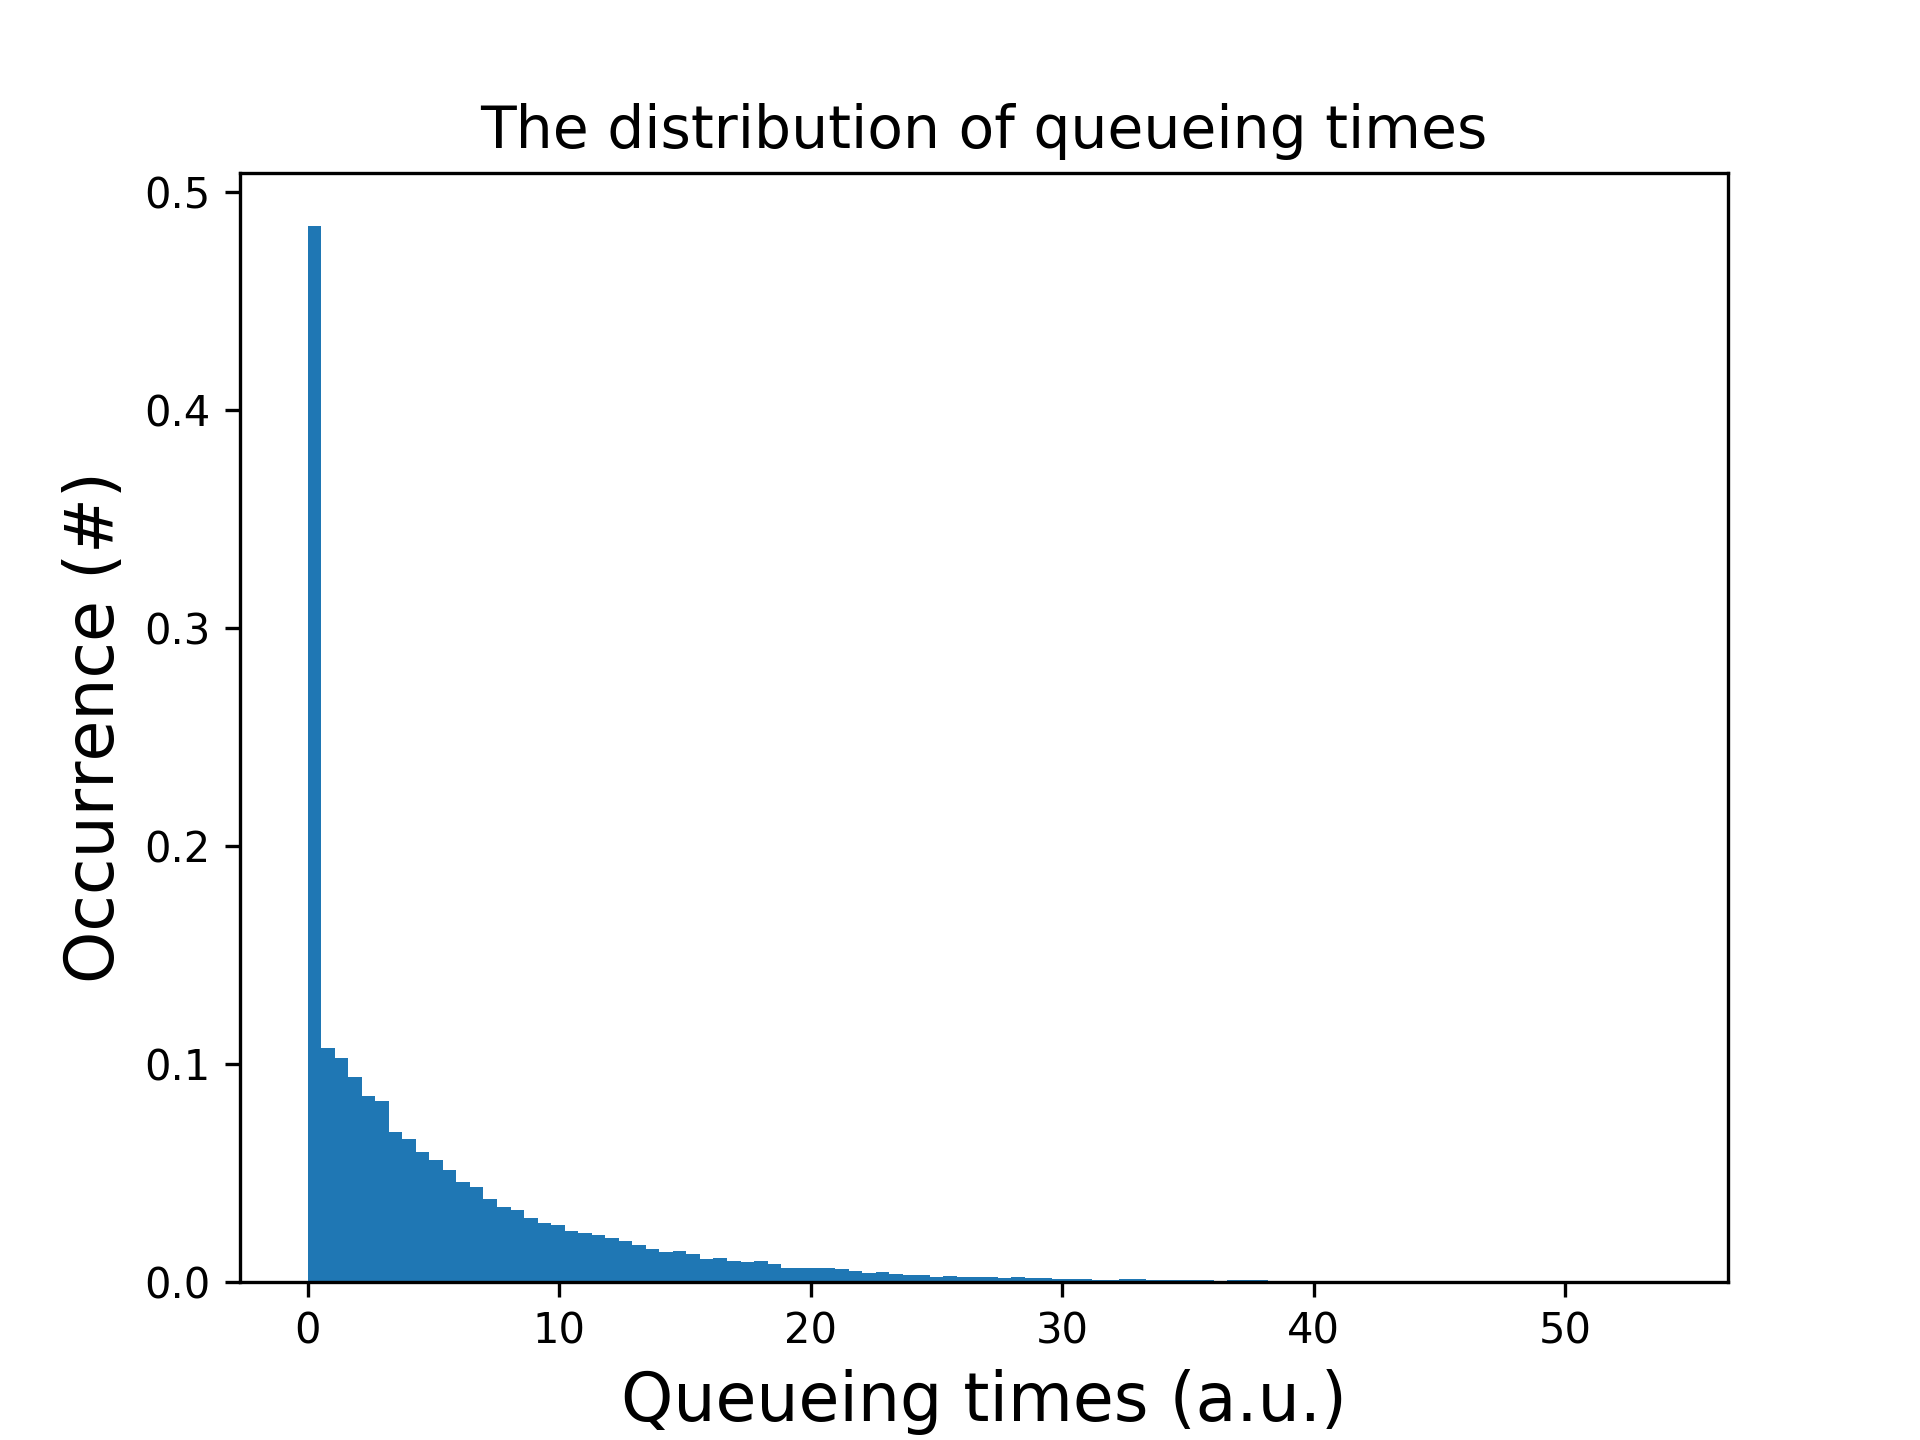
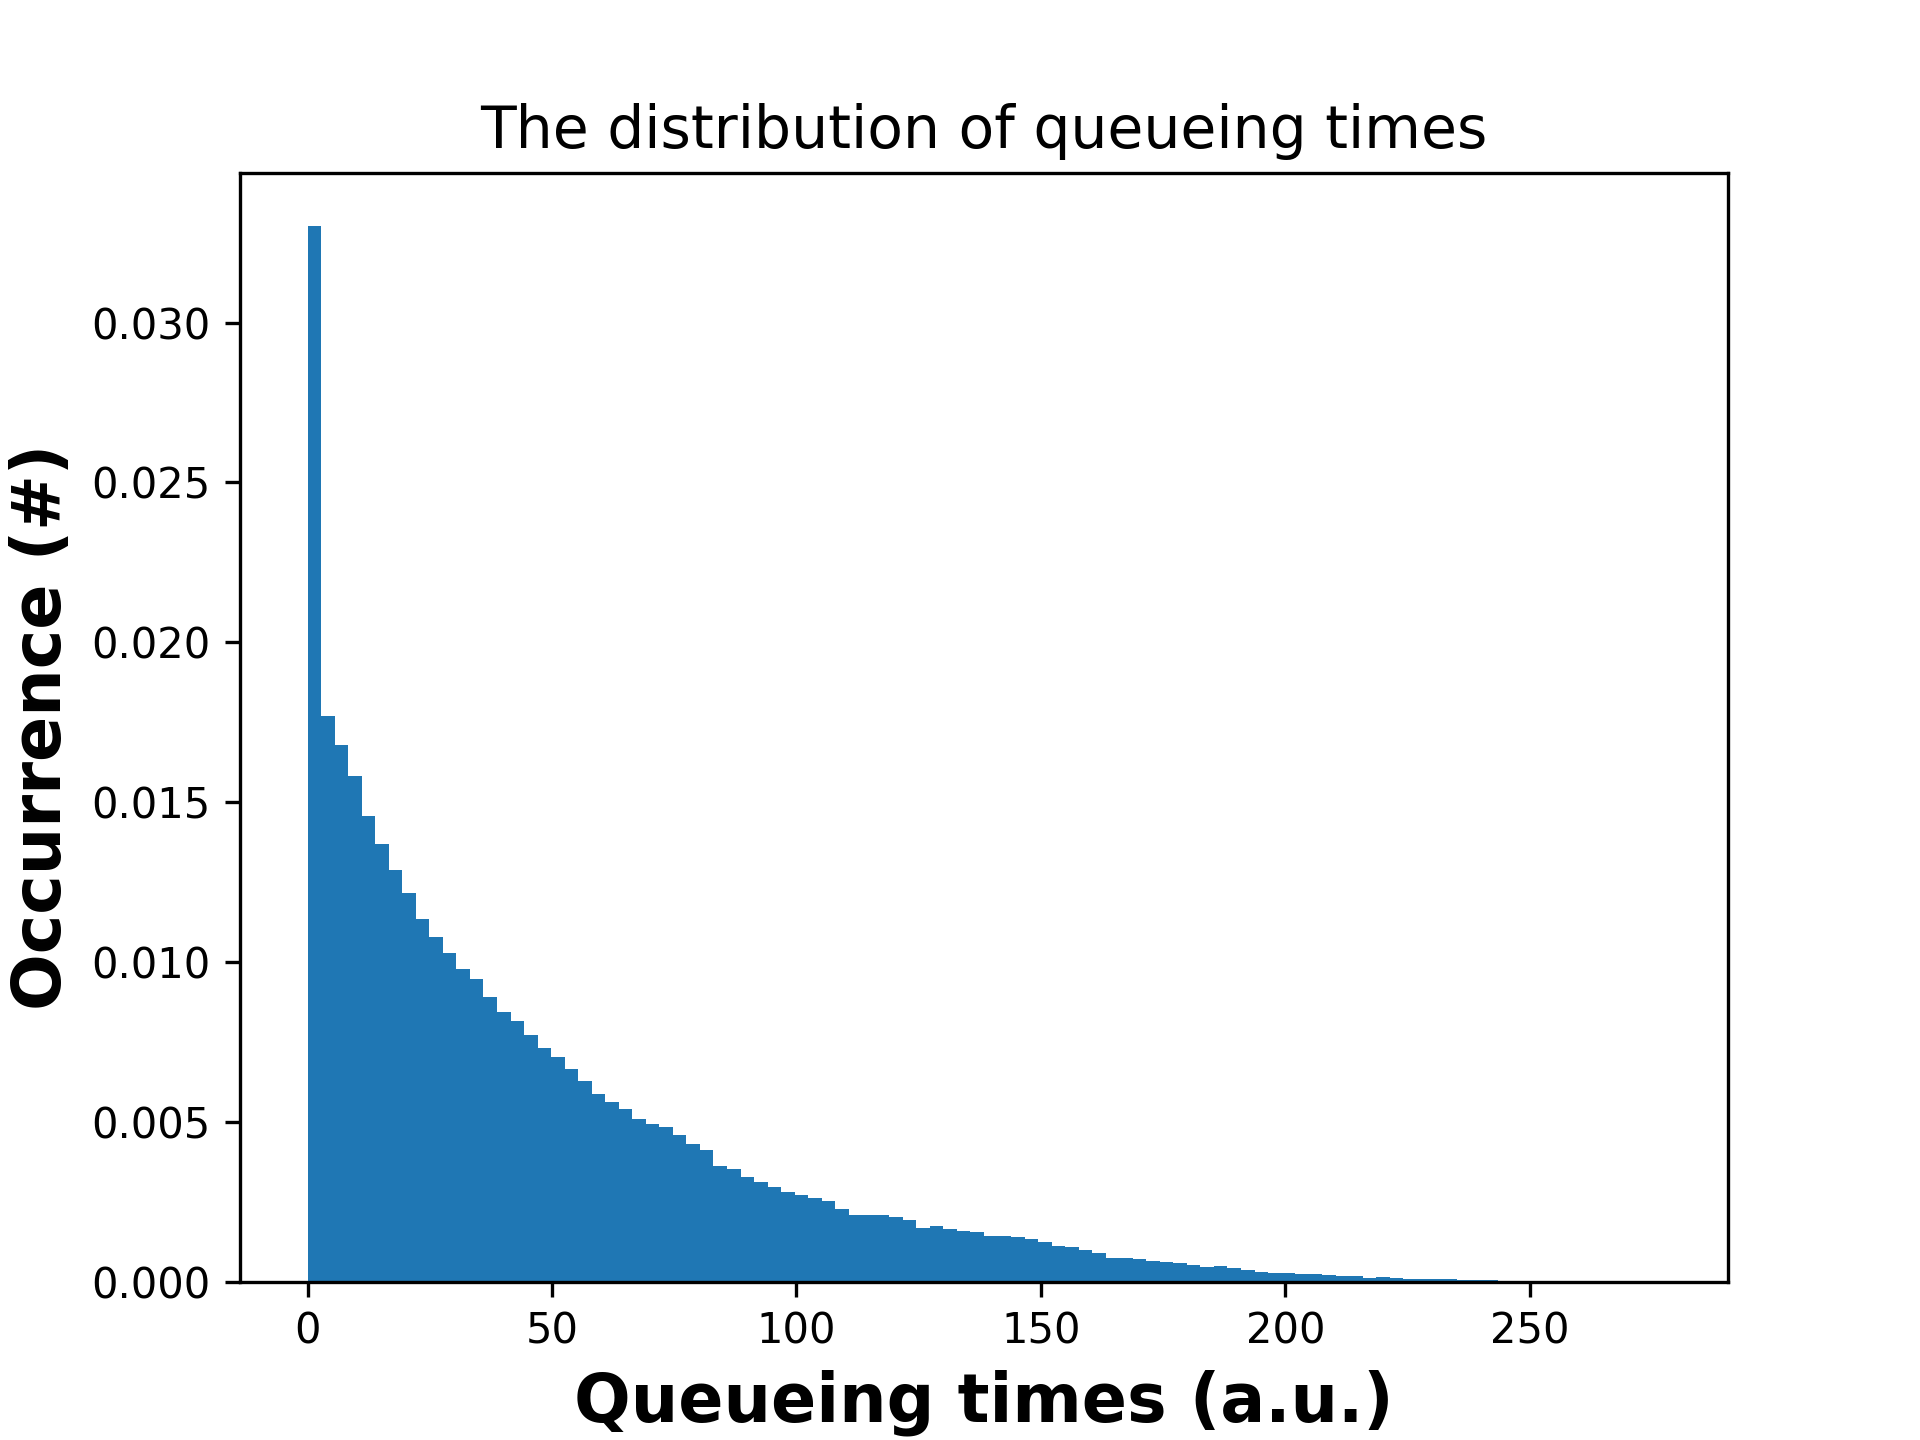
updated the variance everywhere and fixed the rho comparison

diff --git a/Code/main.py b/Code/main.py
@@ -14,10 +14,10 @@ from scipy.optimize import curve_fit
 from scipy.special import factorial
 
 n_server = 1
-mu = 0.80
-l = 0.64
-end_n_actions = 200000
-batch_size = 1000
+mu = 0.50
+l = 0.48
+end_n_actions = 600000
+batch_size = 8000
 initialisation_period = 10000
 n_simulations = 1
 n_batches = (end_n_actions-initialisation_period)/batch_size/2.
@@ -53,28 +53,28 @@ for i in range(n_simulations):
 
     print("Now at simulation {}".format(i))
 
-print(list_batch_averages, np.average(list_batch_averages))
-print("this is the sum", np.sum((list_batch_averages - np.average(list_batch_averages))**2))
-variance = 1 / (n_batches - 1) * np.sum((list_batch_averages - np.average(list_batch_averages))**2)
-print("variance", variance)
-standard_deviation = np.sqrt(variance)
+# calculate the variance
+standard_deviation, confidence_interval = calc_varci(list_batch_averages, n_batches)
+
 ########################################################################################################
 
-print("The average queueing time is {} +- {}".format(np.average(list_batch_averages), standard_deviation))
-plt.figure()
-plt.plot(list_batch_averages)
+print("The average queueing time is {} +- {}".format(np.average(list_batch_averages), confidence_interval))
 
 plt.figure()
-plt.hist(list_batch_averages)
-plt.show()
+ax = plt.gca()
+plt.xlabel("Average queuing time (a.u.)", fontsize=16, fontweight='bold')
+plt.ylabel("Occurrence (#)", fontsize=16, fontweight='bold')
+ax.xaxis.set_tick_params(labelsize=14)
+ax.yaxis.set_tick_params(labelsize=14)
+plt.hist(list_batch_averages, bins=25)
 
 
 # plot the distribution of the average queueing times
 onesim_queueingtimes = plt.figure()
 entries, bin_edges, patches = plt.hist(global_variables.time_spend_in_queue_list, bins=100, normed=True)
 plt.title("The distribution of queueing times", fontsize=14)
-plt.xlabel("Queueing times (a.u.)", fontsize=16)
-plt.ylabel("Occurrence (#)", fontsize=16)
+plt.xlabel("Queueing times (a.u.)", fontsize=16, fontweight='bold')
+plt.ylabel("Occurrence (#)", fontsize=16, fontweight='bold')
 plt.savefig("onesim_queueingtimes_distribution.png", dpi=300)
 
 ########################################################################################################
@@ -84,8 +84,8 @@ plt.savefig("onesim_queueingtimes_distribution.png", dpi=300)
 plt.figure()
 entries, bin_edges, patches = plt.hist(list_average_queuelength, bins = 100, normed=True)
 plt.title("The distribution of the average queue lengths\n of the different simulations", fontsize=14)
-plt.xlabel("Average queueing lengths (#)", fontsize=16)
-plt.ylabel("Occurrence (#)", fontsize=16)
+plt.xlabel("Average queueing lengths (#)", fontsize=16, fontweight='bold')
+plt.ylabel("Occurrence (#)", fontsize=16, fontweight='bold')
 # fit poisson distribution to data
 # x_plot = np.linspace(1, 60, 1000)
 # plt.plot(x_plot, poisson_fit(entries, bin_edges, x_plot), 'r-', lw=2)
@@ -96,8 +96,8 @@ plt.ylabel("Occurrence (#)", fontsize=16)
 # plot the distribution of servicing times
 plt.figure()
 plt.title("A histogram of the time helping costs \n of one simulation")
-plt.ylabel("Occurrence (#)", fontsize=16)
-plt.xlabel("Helping times (a.u.)", fontsize=16)
+plt.ylabel("Occurrence (#)", fontsize=16, fontweight='bold')
+plt.xlabel("Helping times (a.u.)", fontsize=16, fontweight='bold')
 plt.hist(global_variables.list_helptime)
 
 ########################################################################################################
@@ -105,8 +105,8 @@ plt.hist(global_variables.list_helptime)
 # plot the distribution of the interarrival times
 plt.figure()
 plt.title("A histogram of the time inbetween arrivals of tasks")
-plt.ylabel("Occurrence (#)", fontsize=16)
-plt.xlabel("Inter-arrival times (a.u.)", fontsize=16)
+plt.ylabel("Occurrence (#)", fontsize=16, fontweight='bold')
+plt.xlabel("Inter-arrival times (a.u.)", fontsize=16, fontweight='bold')
 plt.hist(global_variables.list_arrivaltime)
 
 ########################################################################################################
@@ -115,8 +115,8 @@ plt.hist(global_variables.list_arrivaltime)
 # plot the queue length at different times
 plt.figure()
 plt.title("Queue length versus time")
-plt.ylabel("Queue length (#)", fontsize=16)
-plt.xlabel("Time (a.u.)", fontsize=16)
+plt.ylabel("Queue length (#)", fontsize=16, fontweight='bold')
+plt.xlabel("Time (a.u.)", fontsize=16, fontweight='bold')
 plt.plot(global_variables.queue_time_list, global_variables.queue_length_list)
 
 ########################################################################################################
@@ -124,9 +124,10 @@ plt.plot(global_variables.queue_time_list, global_variables.queue_length_list)
 plt.figure()
 entries, bin_edges, patches = plt.hist(list_average_queuingtimes, bins = 100)
 plt.title("The distribution of the average queueing times\n of the different simulations", fontsize=14)
-plt.xlabel("Average queueing times (a.u.)", fontsize=16)
-plt.ylabel("Occurrence (#)", fontsize=16)
+plt.xlabel("Average queueing times (a.u.)", fontsize=16, fontweight='bold')
+plt.ylabel("Occurrence (#)", fontsize=16, fontweight='bold')
 # x_plot = np.linspace(0, 60, 1000)
 # plt.plot(x_plot, poisson_fit(entries, bin_edges, x_plot), 'r-', lw=2)
 
+plt.show()
 

diff --git a/Code/comparedifferentrhos.py b/Code/comparedifferentrhos.py
@@ -13,17 +13,20 @@ import os
 from scipy.optimize import curve_fit
 from scipy.special import factorial
 
-n_server = 2
+n_server = 1
 mu = 0.50
 l = 0.48
-endtime = 8000
-n_simulations = 1500
+end_n_actions = 600000
+batch_size = 8000
+initialisation_period = 10000
+n_simulations = 1
+n_batches = (end_n_actions-initialisation_period)/batch_size/2.
 sjf = False  # use shortest job first
 
 '''Run simulation for different values of rho'''
 list_nf_confidence_average_queuetimes = []
 list_total_average_queuetimes = []
-mu_range = np.arange(l+0.01, 0.8, 0.03)
+mu_range = np.arange(l+0.01, 0.8, 0.05)
 for mu in mu_range:
     list_average_queuelength = []
     list_average_queuingtimes = []
@@ -38,31 +41,29 @@ for mu in mu_range:
         env = simpy.Environment()
 
         # set up the system
-        env.process(setup(env, n_server, mu, l, sjf))
+        env.process(setup(env, n_server, mu, l, sjf, end_n_actions))
 
         # run the program
-        env.run(until=endtime)
+        env.run()
 
         average_queuelength = np.average(global_variables.queue_length_list)
         list_average_queuelength.append(average_queuelength)
 
+        list_batch_averages = batch_averages(batch_size, initialisation_period)
         average_queuingtimes = np.average(global_variables.time_spend_in_queue_list)
         list_average_queuingtimes.append(average_queuingtimes)
 
         print("Now at simulation {}".format(i))
 
-    total_average_queuetimes = np.average(list_average_queuingtimes)
+    total_average_queuetimes = np.average(list_batch_averages)
     list_total_average_queuetimes.append(total_average_queuetimes)
-    variance_average_queuetimes = len(global_variables.queue_length_list) / (n_simulations - 1.) * sum((list_average_queuingtimes - total_average_queuetimes)**2)
-    nf_confidence_average_queuetimes = 1.96 * np.sqrt(variance_average_queuetimes/n_simulations)
-    list_nf_confidence_average_queuetimes.append(nf_confidence_average_queuetimes)
+    standard_deviation, confidence_interval = calc_varci(list_batch_averages, n_batches)
+    list_nf_confidence_average_queuetimes.append(confidence_interval)
 
-theoretical_waitingtime = (l/mu_range)/(l*(1.-(l/mu_range)**2))
-print(l/mu_range)
-print(l*(1.-(l/mu_range)**2))
+theoretical_waitingtime = (l/mu_range)/(l*(1.-(l/mu_range))) - 1/mu_range
 
 plt.figure()
-plt.errorbar(l/mu_range, list_total_average_queuetimes, nf_confidence_average_queuetimes)
+plt.errorbar(l/mu_range, list_total_average_queuetimes, list_nf_confidence_average_queuetimes)
 plt.plot(l/mu_range, theoretical_waitingtime, 'r')
 plt.title("Average queueing times versus rho")
 plt.xlabel("value of rho (a.u.)", fontsize=16)

diff --git a/Code/functions.py b/Code/functions.py
@@ -94,3 +94,10 @@ def batch_averages(batch_size, initialisation_period):
         list_batch_averages.append(np.average(shortened_queuing_times[i*batch_size:(i+1)*batch_size]))
 
     return list_batch_averages
+
+def calc_varci(list_batch_averages, n_batches):
+    variance = 1 / (n_batches - 1) * np.sum((list_batch_averages - np.average(list_batch_averages)) ** 2)
+    standard_deviation = np.sqrt(variance)
+    confidence_interval = 1.96 * variance/np.sqrt(n_batches)
+
+    return standard_deviation, confidence_interval

diff --git a/Code/determinebestbatchsize.py b/Code/determinebestbatchsize.py
@@ -26,7 +26,7 @@ list_average_queuelength = []
 list_average_queuingtimes = []
 list_stddev = []
 
-diff_batchsizes = np.arange(1,20000,1000)
+diff_batchsizes = np.arange(1,30000,6000)
 
 # run the simulation multiple times
 for i in diff_batchsizes:
